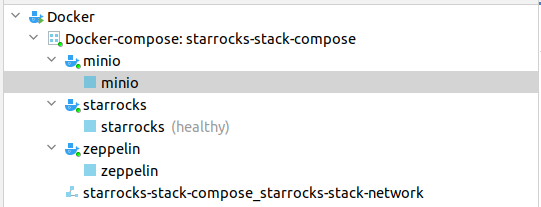
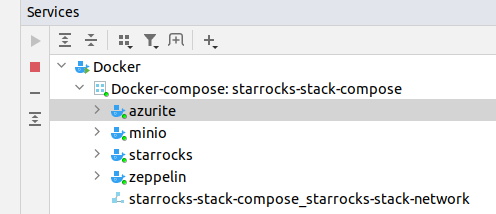
[Tool] Add Azure emulator service to starrocks-stack-compose (#18331)

diff --git a/docker/starrocks-stack-compose/README.md b/docker/starrocks-stack-compose/README.md
@@ -4,7 +4,8 @@ Docker Compose for StarRocks AllIn1 container and a few other peripheral applica
 
 ## This compose file composes the following services:
 - starrocks allin1 local cluster service.
-- minio local service.(used by testing broker load)
+- minio local service (emulation for S3, used by testing broker load).
+- azurite service (emulation for Azure blob storage, used by testing broker load). 
 - zeppelin local service with: (used as sql notebook and data visualization)
   - mysql jdbc interpreter pre-configured and connected to starrocks allin1 service.
   - sample starrocks notebook.
@@ -44,6 +45,29 @@ This service can be accessed from:
 Documentation: https://min.io/docs/minio/linux/index.html
 
 ![minio-console.png](minio-consle.png)
+
+
+## Azurite Service
+Azure blob store emulator service running locally.
+This service can be accessed from:
+- **local laptop**
+  - Azurite Blob service: http://127.0.0.1:10000
+  - Azurite Queue service: http://127.0.0.1:10001
+  - Azurite Table service: http://127.0.0.1:10002
+- **docker network**
+  - Azurite Blob service: http://azurite.local.com:10000
+  - Azurite Queue service: http://azurite.local.com:10001
+  - Azurite Table service: http://azurite.local.com:10002
+
+### Use Intellij Bigdata Tool plugin to access azurite
+The Bigdata Tool supports drags and drops files betwen Azure blob store and local file system or other Blob Store such as S3, Minio.
+![azurite1.png](azurite1.png)
+![azurite2.png](azurite2.png)
+
+### [Azurite Command Line Tool ](https://learn.microsoft.com/en-us/azure/storage/common/storage-use-azurite?toc=%2Fazure%2Fstorage%2Fblobs%2Ftoc.json&bc=%2Fazure%2Fstorage%2Fblobs%2Fbreadcrumb%2Ftoc.json&tabs=visual-studio#command-line-options)
+Documentation: [Use the Azurite emulator for local Azure Storage development](https://learn.microsoft.com/en-us/azure/storage/common/storage-use-azurite?toc=%2Fazure%2Fstorage%2Fblobs%2Ftoc.json&bc=%2Fazure%2Fstorage%2Fblobs%2Fbreadcrumb%2Ftoc.json&tabs=visual-studio )
+
+
 
 ## Zeppelin Local Service
 Zeppelin Notebook Service running locally.
